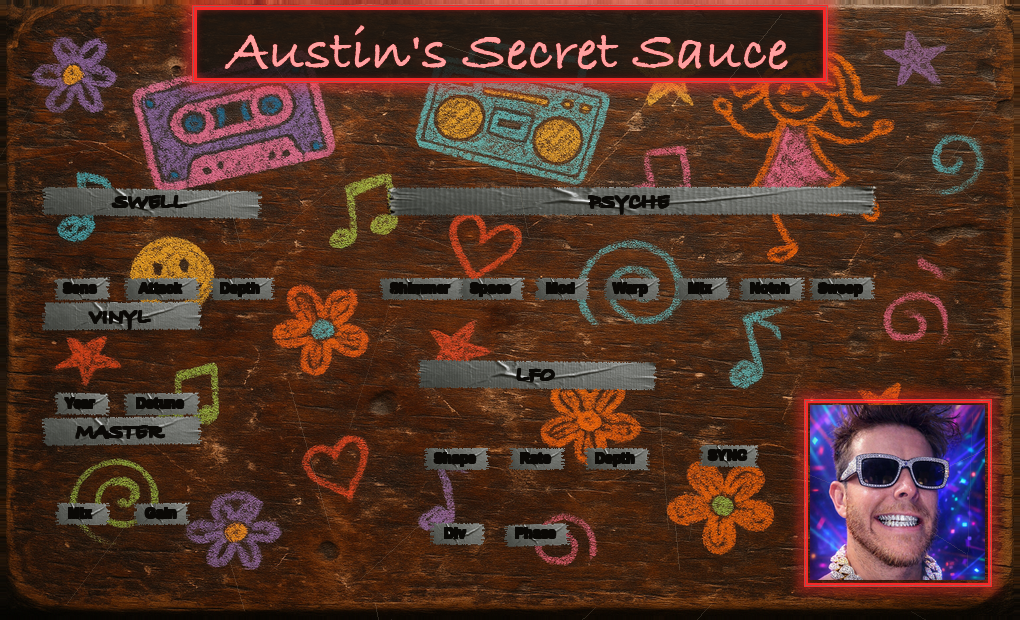
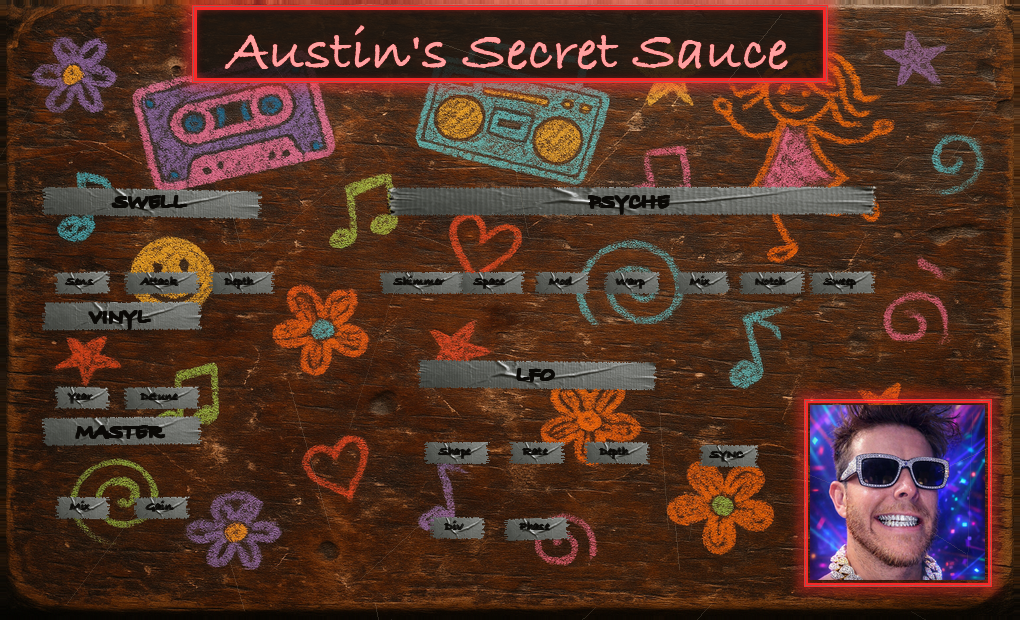
v4.1: Animated neon flicker + thinner labels + tighter labels
- Neon glow overlays on title box and portrait frame animate at 30fps
- Slow breathing pulse (3-sec cycle) + random stutter/flicker events
- Hard stutter (dim to 30%) rare, soft dip (60%) occasional, like real neon
- Hot white center line for authentic tube glow effect
- Knob labels: thinner single-stroke sharpie (12pt, was 14pt bold)
- Labels pulled closer to knobs (KNOB_R_UV 24, was 30)
- No guitar cables (removed)

diff --git a/src/PluginEditor.cpp b/src/PluginEditor.cpp
@@ -73,11 +73,9 @@ void AetherEditor::FilmstripLookAndFeel::drawToggleButton(
 AetherEditor::AetherEditor(AetherProcessor& p)
     : AudioProcessorEditor(&p), processor(p)
 {
-    // Background (baked: wood texture + duct tape labels + neon title + portrait)
     backgroundImg = juce::ImageFileFormat::loadFrom(
         BinaryData::background_png, BinaryData::background_pngSize);
 
-    // Per-section colored knob filmstrips
     auto loadStrip = [](FilmstripLookAndFeel& lnf, const char* data, int size) {
         juce::Image img = juce::ImageFileFormat::loadFrom(data, size);
         lnf.setKnobStrip(img, 128);
@@ -91,7 +89,6 @@ AetherEditor::AetherEditor(AetherProcessor& p)
 
     setSize(1020, 620);
 
-    // Setup knobs with section-specific look and feel
     auto setupKnob = [&](juce::Slider& s, FilmstripLookAndFeel& lnf) {
         s.setSliderStyle(juce::Slider::RotaryHorizontalVerticalDrag);
         s.setTextBoxStyle(juce::Slider::NoTextBox, false, 0, 0);
@@ -147,11 +144,12 @@ AetherEditor::AetherEditor(AetherProcessor& p)
     aPsycheBypass  = std::make_unique<ButtonAttachment>(apvts, "psycheBypass",  psycheBypass);
     aLfoBypass     = std::make_unique<ButtonAttachment>(apvts, "lfoBypass",     lfoBypass);
     aLfoSync       = std::make_unique<ButtonAttachment>(apvts, "lfoSync",       lfoSync);
+
+    startTimerHz(30); // 30fps for smooth neon animation
 }
 
 AetherEditor::~AetherEditor()
 {
-    // Clear per-slider LAF before destruction
     for (auto* s : { &swellSens, &swellAttack, &swellDepth,
                      &vinylYear, &vinylDetune,
                      &psycheShimmer, &psycheSpace, &psycheMod, &psycheWarp,
@@ -162,32 +160,95 @@ AetherEditor::~AetherEditor()
 }
 
 // ================================================================
-// Layout — two-column design matching baked background
+// Timer — drives neon flicker animation
 // ================================================================
-// UV coordinates from render: x/1020, y/620
-// Knob size reduced to avoid covering duct tape labels
+void AetherEditor::timerCallback()
+{
+    neonTime += 1.0f / 30.0f;
+
+    // Slow breathing: 0.7 - 1.0 over ~3 second cycle
+    neonBreath = 0.85f + 0.15f * std::sin(neonTime * 2.1f);
+
+    // Random flicker events (like a real neon tube)
+    flickerCountdown--;
+    if (flickerCountdown <= 0)
+    {
+        std::uniform_int_distribution<int> nextFlicker(15, 90); // 0.5 - 3 seconds between events
+        flickerCountdown = nextFlicker(rng);
+
+        std::uniform_real_distribution<float> flickerType(0.0f, 1.0f);
+        float r = flickerType(rng);
+        if (r < 0.15f)
+            neonFlicker = 0.3f;  // hard stutter (rare)
+        else if (r < 0.35f)
+            neonFlicker = 0.6f;  // soft dip
+        else
+            neonFlicker = 1.0f;  // normal
+    }
+    else if (neonFlicker < 1.0f)
+    {
+        // Recover from flicker over a few frames
+        neonFlicker = juce::jmin(1.0f, neonFlicker + 0.15f);
+    }
+
+    // Only repaint the neon areas (title top + portrait bottom-right)
+    repaint(0, 0, getWidth(), 65);                  // title region
+    repaint(getWidth() - 230, getHeight() - 220, 230, 220); // portrait region
+}
+
+// ================================================================
+// Neon glow overlay — draws animated glow rectangles
+// ================================================================
+void AetherEditor::drawNeonGlow(juce::Graphics& g, juce::Rectangle<float> bounds,
+                                 juce::Colour color, float intensity)
+{
+    float alpha = intensity * neonBreath * neonFlicker;
+    alpha = juce::jlimit(0.0f, 1.0f, alpha);
+
+    // Outer soft glow (large, faint)
+    for (int i = 3; i >= 1; i--)
+    {
+        float expand = (float)i * 6.0f;
+        float a = alpha * 0.12f * (float)(4 - i);
+        g.setColour(color.withAlpha(a));
+        g.drawRoundedRectangle(bounds.expanded(expand), 4.0f, 3.0f);
+    }
+
+    // Inner bright glow
+    g.setColour(color.withAlpha(alpha * 0.5f));
+    g.drawRoundedRectangle(bounds.expanded(2.0f), 3.0f, 2.5f);
+
+    // Core neon line
+    g.setColour(color.withAlpha(alpha * 0.8f));
+    g.drawRoundedRectangle(bounds, 2.0f, 2.0f);
+
+    // Hot white center (the brightest part of a neon tube)
+    juce::Colour hotCenter = color.interpolatedWith(juce::Colours::white, 0.5f);
+    g.setColour(hotCenter.withAlpha(alpha * 0.3f));
+    g.drawRoundedRectangle(bounds.reduced(1.0f), 2.0f, 1.0f);
+}
+
+// ================================================================
+// Layout
+// ================================================================
 void AetherEditor::resized()
 {
-    int K = 56; // knob size (smaller to not cover labels)
+    int K = 56;
 
-    // LEFT COLUMN: Swell / Vinyl / Master stacked
-    // Swell row (3 knobs)
+    // LEFT COLUMN
     swellSens.setBounds  (80  - K/2, 240 - K/2, K, K);
     swellAttack.setBounds(160 - K/2, 240 - K/2, K, K);
     swellDepth.setBounds (240 - K/2, 240 - K/2, K, K);
     swellBypass.setBounds(40, 188, 36, 22);
 
-    // Vinyl row (2 knobs)
     vinylYear.setBounds  (80  - K/2, 355 - K/2, K, K);
     vinylDetune.setBounds(160 - K/2, 355 - K/2, K, K);
     vinylBypass.setBounds(40, 303, 36, 22);
 
-    // Master row (2 knobs)
     masterMix.setBounds (80  - K/2, 465 - K/2, K, K);
     masterGain.setBounds(160 - K/2, 465 - K/2, K, K);
 
-    // RIGHT COLUMN: Psyche / LFO stacked
-    // Psyche — 7 knobs in one row
+    // RIGHT COLUMN
     int psycheGap = 70;
     int psycheStart = 420;
     psycheShimmer.setBounds(psycheStart               - K/2, 240 - K/2, K, K);
@@ -199,7 +260,6 @@ void AetherEditor::resized()
     psycheSweep.setBounds  (psycheStart + psycheGap*6  - K/2, 240 - K/2, K, K);
     psycheBypass.setBounds(385, 188, 36, 22);
 
-    // LFO — row 1 (3 knobs), row 2 (2 knobs + sync)
     lfoShape.setBounds(455 - K/2, 410 - K/2, K, K);
     lfoRate.setBounds (535 - K/2, 410 - K/2, K, K);
     lfoDepth.setBounds(615 - K/2, 410 - K/2, K, K);
@@ -210,14 +270,36 @@ void AetherEditor::resized()
 }
 
 // ================================================================
-// Paint — background only (all labels baked into texture)
+// Paint
 // ================================================================
 void AetherEditor::paint(juce::Graphics& g)
 {
+    // Static background (wood desk + pedal with baked labels)
     if (backgroundImg.isValid())
         g.drawImage(backgroundImg, getLocalBounds().toFloat());
     else
         g.fillAll(juce::Colour(0xFF3B2F2F));
+
+    // ---- Animated neon glow overlays ----
+    juce::Colour neonRed(0xFFFF2828);
+
+    // Title box "Austin's Secret Sauce" — approximate baked position
+    // (centered, near top of pedal face)
+    {
+        float titleW = 350.0f;
+        float titleH = 50.0f;
+        float titleX = (float)getWidth() * 0.5f - titleW * 0.5f;
+        float titleY = 8.0f;
+        drawNeonGlow(g, { titleX, titleY, titleW, titleH }, neonRed, 0.9f);
+    }
+
+    // Portrait frame — bottom right of pedal face
+    {
+        float pw = 175.0f, ph = 175.0f;
+        float px = (float)getWidth() - pw - 35.0f;
+        float py = (float)getHeight() - ph - 40.0f;
+        drawNeonGlow(g, { px, py, pw, ph }, neonRed, 0.75f);
+    }
 
     // LFO info readout
     int lShape = static_cast<int>(lfoShape.getValue());

diff --git a/src/PluginEditor.h b/src/PluginEditor.h
@@ -2,8 +2,10 @@
 #include "PluginProcessor.h"
 #include <juce_audio_processors/juce_audio_processors.h>
 #include <juce_gui_basics/juce_gui_basics.h>
+#include <random>
 
-class AetherEditor : public juce::AudioProcessorEditor
+class AetherEditor : public juce::AudioProcessorEditor,
+                     private juce::Timer
 {
 public:
     AetherEditor(AetherProcessor&);
@@ -13,6 +15,8 @@ public:
     void resized() override;
 
 private:
+    void timerCallback() override;
+
     AetherProcessor& processor;
 
     // ---- Per-section filmstrip Look & Feel ----
@@ -35,6 +39,16 @@ private:
     FilmstripLookAndFeel swellLnf, vinylLnf, masterLnf, psycheLnf, lfoLnf;
 
     juce::Image backgroundImg;
+
+    // ---- Neon animation state ----
+    float neonTime = 0.0f;
+    float neonFlicker = 1.0f;       // current flicker multiplier
+    float neonBreath = 1.0f;        // slow breathing
+    int flickerCountdown = 0;       // frames until next flicker event
+    std::mt19937 rng { std::random_device{}() };
+
+    void drawNeonGlow(juce::Graphics& g, juce::Rectangle<float> bounds,
+                      juce::Colour color, float intensity);
 
     // ---- Controls ----
     juce::Slider swellSens, swellAttack, swellDepth;
